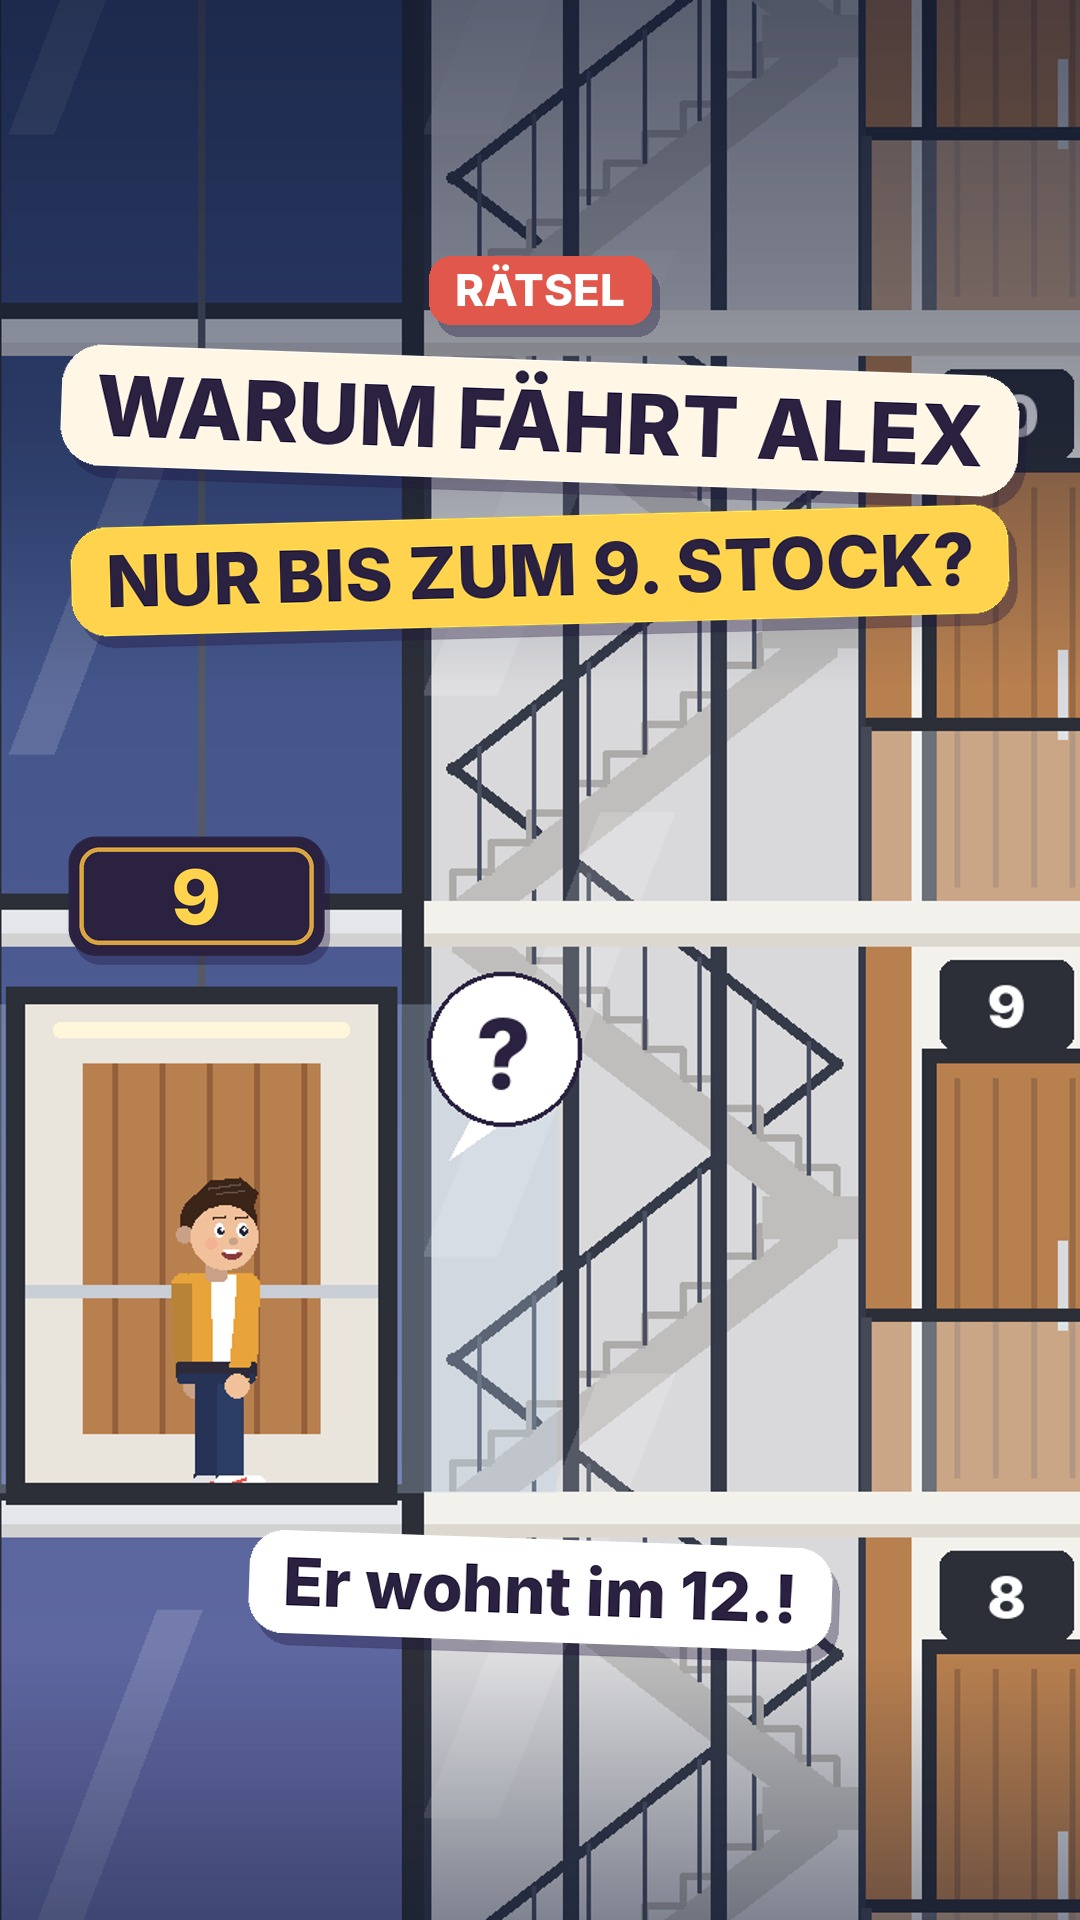
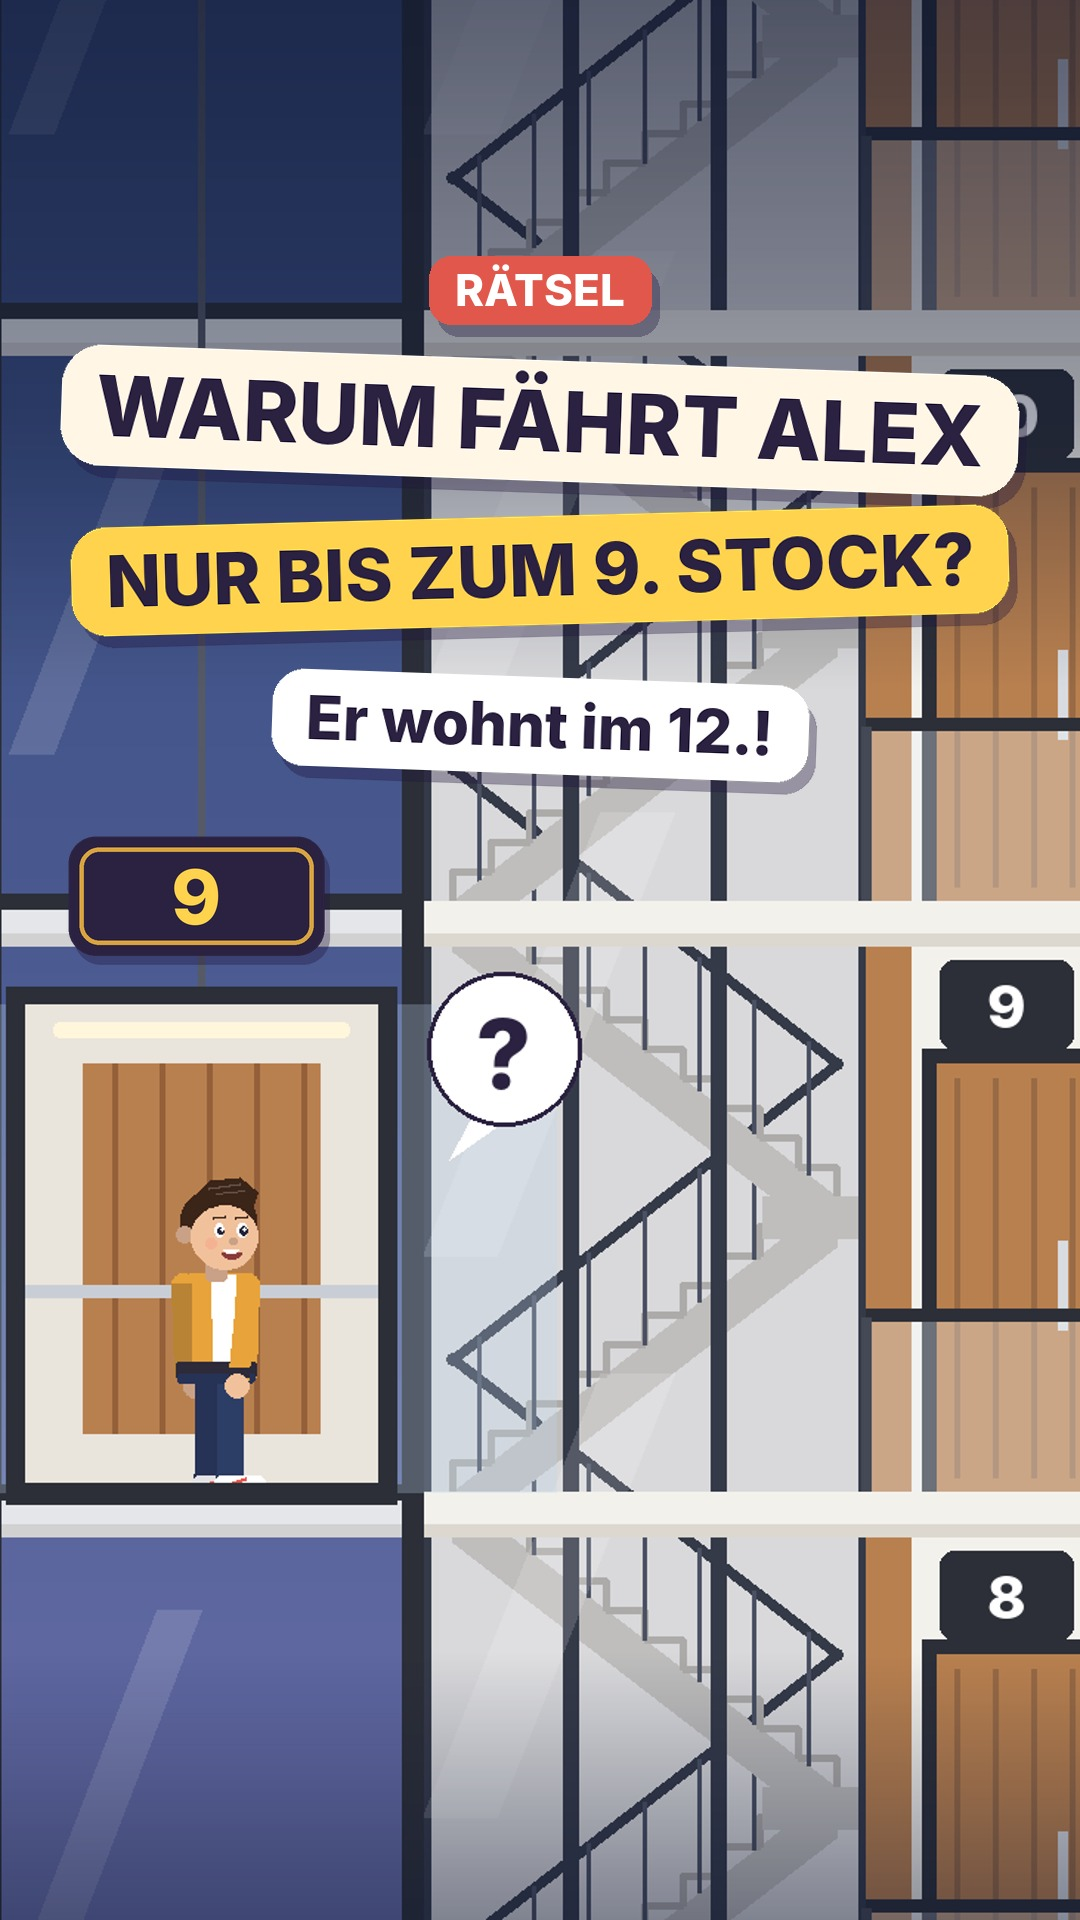
Cover: move all text out of TikTok's bottom UI area
Claude-Session: https://claude.ai/code/session_01McNdgYWSkicRk1pCfdiRPe

Changed region(s): [[0.2139, 0.7812, 0.7944, 0.875], [0.2444, 0.3438, 0.7639, 0.4375]]

diff --git a/videos/01_alex_aufzug/make_cover.py b/videos/01_alex_aufzug/make_cover.py
@@ -37,7 +37,7 @@ def cover():
     pill(img, OUT_W / 2, 420, l1, fit(l1, 960, 88), rot=-2)
     pill(img, OUT_W / 2, 570, l2, fit(l2, 960, 88), bg="#ffd34d", rot=1.5)
     l3 = "Er wohnt im 12.!"
-    pill(img, OUT_W / 2, 1590, l3, fit(l3, 860, 66), bg="#ffffff", rot=-2)
+    pill(img, OUT_W / 2, 725, l3, fit(l3, 860, 60), bg="#ffffff", rot=-2)
     return img
 
 
